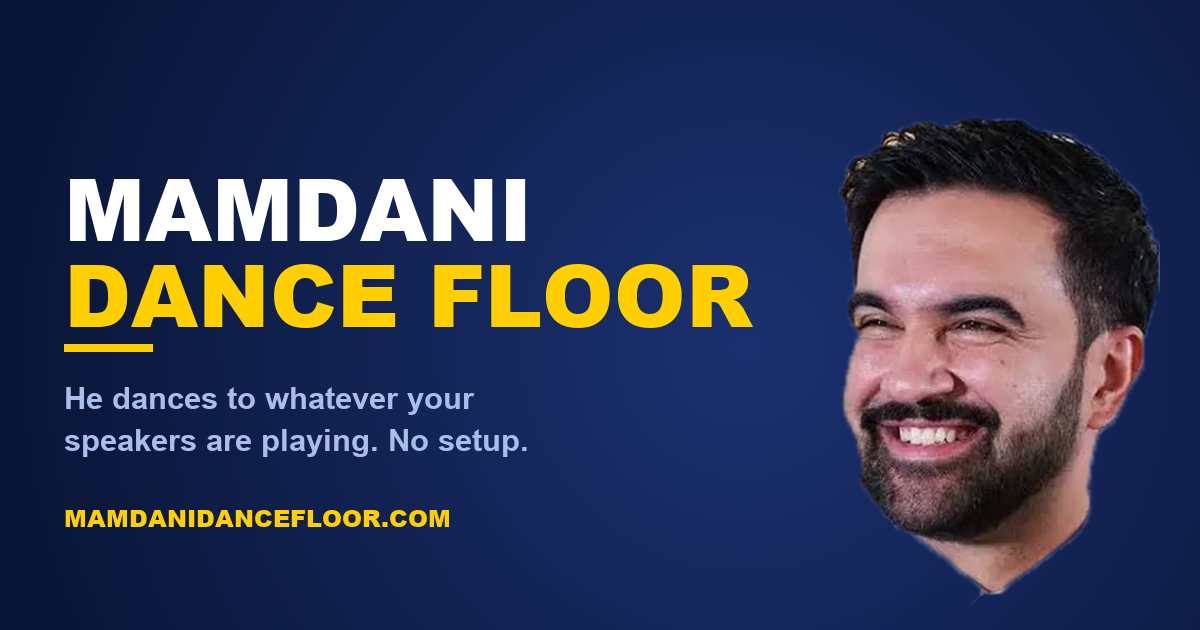
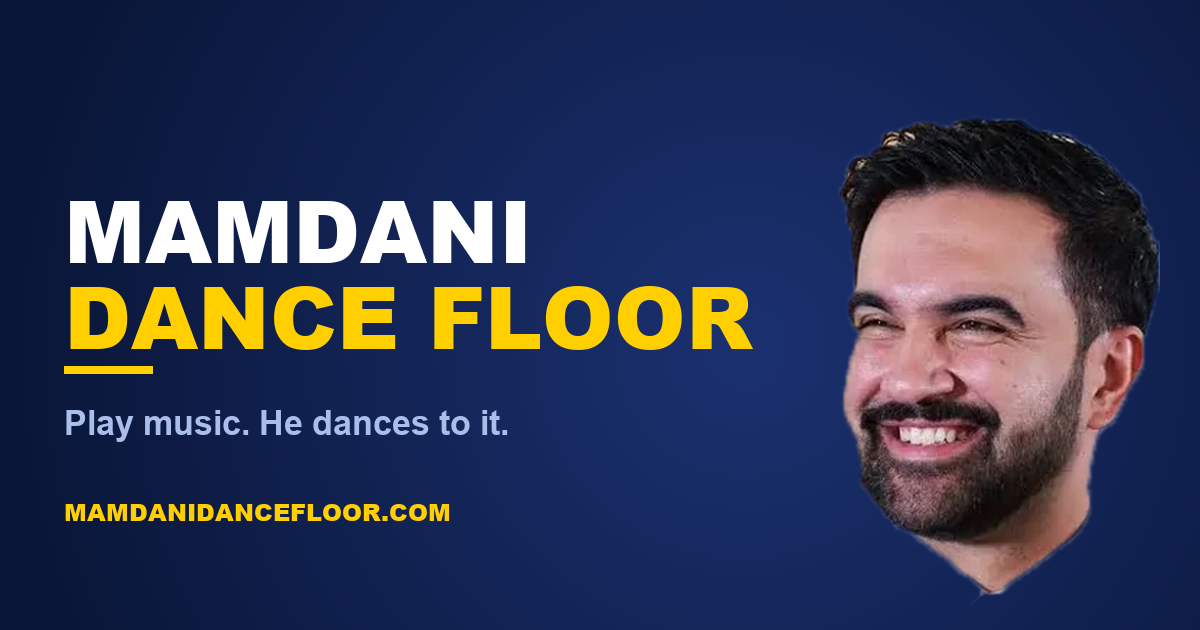
Restore the full show on phones; fact on top; shorter copy
Phones get the letterboxed band back with scenes, spectrum and crowd,
reverting the solo-dancer view. The band now sits at 62% rather than
centred, which opens the space above it for the fact box, moved from
the bottom to the top.

Copy trimmed. The share description was a paragraph explaining the
product; it is now "Play music. He dances to it." The iPhone notice
explained the audio-session limitation at length when the user only
needs the instruction: play on another device, hold this one near it.

Changed region(s): [[0.0308, 0.2714, 0.6475, 0.7238], [0.0617, 0.7841, 0.37, 0.8444]]

diff --git a/index.html b/index.html
@@ -10,11 +10,11 @@
 <meta name="theme-color" content="#12235B">
 <!-- /favicon -->
 <!-- link preview -->
-<meta name="description" content="He dances on the beat to whatever your speakers are playing. Real time beat detection, no setup, no sign in.">
+<meta name="description" content="Play music. He dances to it.">
 <meta property="og:type" content="website">
 <meta property="og:site_name" content="Mamdani Dance Floor">
 <meta property="og:title" content="Mamdani Dance Floor">
-<meta property="og:description" content="He dances on the beat to whatever your speakers are playing. Real time beat detection, no setup, no sign in.">
+<meta property="og:description" content="Play music. He dances to it.">
 <meta property="og:url" content="https://mamdanidancefloor.com/">
 <meta property="og:image" content="https://mamdanidancefloor.com/og.png">
 <meta property="og:image:width" content="1200">
@@ -22,7 +22,7 @@
 <meta property="og:image:alt" content="Mamdani Dance Floor">
 <meta name="twitter:card" content="summary_large_image">
 <meta name="twitter:title" content="Mamdani Dance Floor">
-<meta name="twitter:description" content="He dances on the beat to whatever your speakers are playing. Real time beat detection, no setup, no sign in.">
+<meta name="twitter:description" content="Play music. He dances to it.">
 <meta name="twitter:image" content="https://mamdanidancefloor.com/og.png">
 <!-- /link preview -->
 <style>
@@ -228,14 +228,15 @@
     background:#FFCF00; border:3px solid #12235B; box-shadow:0 2px 10px rgba(0,0,0,.5); }
 
   @media (max-width:700px) {
-    /* Phone is the solo view: him alone on flat dark. No scene art behind him,
-       so there is no fact to caption. display:none also beats the inline
-       opacity setFact() writes. */
-    #fact { display:none; }
-    /* Nothing but him on a phone. The sync chip is desk furniture (he either
-       dances or he does not, which says the same thing), and the full-screen
-       button is the one control most likely to be hit by accident while
-       someone is holding the phone up. */
+    /* The fact moves to the empty space above the band, where it reads as a
+       caption for the scene rather than something covering it. */
+    #fact { left:12px; right:12px; bottom:auto; top:14px; width:auto; max-width:none;
+      padding:10px 13px 11px; border-left-width:4px; text-align:left; }
+    #fact .fl { font-size:9px; letter-spacing:.2em; margin-bottom:5px; }
+    #fact .ft { font-size:12px; line-height:1.4; }
+    /* The sync chip is desk furniture (he either dances or he does not, which
+       says the same thing), and the full-screen button is the one control most
+       likely to be hit by accident while someone is holding the phone up. */
     #corner { display:none; }
     #sens { display:block; }
   }
@@ -327,10 +328,8 @@ const caches = {};
    into a letterboxed band across the middle and leave the rest dark. */
 const MAXR = 0.72;                       // tallest the stage is ever allowed to get
 
-/* On a phone the letterboxed band left him about a third of the screen and the
-   wide scene art was unreadable at that size. Phones instead get him alone,
-   full height, on flat dark: no scenes, no spectrum, no crowd, no fact box.
-   Matches the CSS breakpoint below. */
+/* Phones get the full show in a letterboxed band, scenes and spectrum included.
+   The band sits below centre so the fact reads above it rather than over it. */
 let SOLO = false;
 const soloQuery = window.matchMedia('(max-width:700px)');
 
@@ -339,8 +338,9 @@ function resize() {
   VW = window.innerWidth; VH = window.innerHeight;
   SOLO = soloQuery.matches;
   cv.width = Math.round(VW * DPR); cv.height = Math.round(VH * DPR);
-  W = VW; H = SOLO ? VH : Math.min(VH, Math.round(VW * MAXR));
-  offY = SOLO ? 0 : Math.round((VH - H) / 2);
+  W = VW; H = Math.min(VH, Math.round(VW * MAXR));
+  // 0.5 centres the band; 0.62 drops it to leave room for the fact above.
+  offY = Math.round((VH - H) * (SOLO ? 0.62 : 0.5));
   ctx.setTransform(DPR, 0, 0, DPR, 0, offY * DPR);
   document.body.classList.toggle('boxed', offY > 6);
   document.documentElement.style.setProperty('--band', offY + 'px');
@@ -2630,27 +2630,8 @@ function draw() {
   ctx.save();                                  // wipe the full surface, bars included
   ctx.setTransform(DPR, 0, 0, DPR, 0, 0);
   ctx.clearRect(0, 0, VW, VH);
-  if (SOLO || offY > 0) { ctx.fillStyle = SOLO ? '#0a1638' : '#05070f'; ctx.fillRect(0, 0, VW, VH); }
+  if (offY > 0) { ctx.fillStyle = '#0a1638'; ctx.fillRect(0, 0, VW, VH); }
   ctx.restore();
-
-  /* Phone: just him, dancing, on the campaign navy. He gets the whole viewport,
-     so the unit scales off the short side and he stands lower than the wide
-     layout. A soft pool of light under him keeps him off a flat wall of colour
-     and gives the beat somewhere to show. */
-  if (SOLO) {
-    ctx.save();
-    ctx.beginPath(); ctx.rect(0, 0, W, H); ctx.clip();
-    const gy = H * 0.62, gr = Math.max(W, H) * (0.52 + S.kick * 0.05);
-    const bg = ctx.createRadialGradient(W / 2, gy, 0, W / 2, gy, gr);
-    bg.addColorStop(0, '#1b3170');
-    bg.addColorStop(0.55, '#12235B');
-    bg.addColorStop(1, '#0a1638');
-    ctx.fillStyle = bg; ctx.fillRect(0, 0, W, H);
-    drawDancer(W / 2, H * 0.72, Math.min(W, H) * 0.25, S.beat + S.phase, S.energy);
-    if (S.flash > 0.01) { ctx.fillStyle = `rgba(255,255,255,${S.flash * 0.5})`; ctx.fillRect(0, 0, W, H); }
-    ctx.restore();
-    return;
-  }
 
   ctx.save();                                  // nothing escapes the stage
   ctx.beginPath(); ctx.rect(0, 0, W, H); ctx.clip();
@@ -2752,23 +2733,18 @@ if (noSystemAudio) {
   el('optMic').querySelector('.ch').textContent = 'Start the music';
   // A desktop browser that cannot share audio lands here too, so don't tell
   // someone on a laptop about "this phone".
-  const named = { firefox:'Firefox', safari:'Safari' }[BROWSER];
-  /* iOS hands the microphone to one app at a time. The moment this page starts
-     listening, iOS interrupts whatever else is playing, and a web page has no way
-     to ask for a mixable session \u2014 navigator.audioSession is the only lever and it
-     does not deliver here. So don't promise the phone's own speaker on iPhone;
-     point at a second source, which is what actually works. */
+  /* iOS hands the microphone to one app at a time, so the moment this page
+     listens it interrupts whatever is playing. Nothing a page can do about it,
+     so iPhone gets pointed at a second source instead of the phone's own
+     speaker. Keep the wording short: users need the instruction, not the cause. */
   el('optMic').querySelector('.cs').textContent =
     (!onPhone && NO_TAB_AUDIO)
-      ? (named || 'This browser') + ' cannot pass this page the sound from a tab or from '
-        + 'your system, so he listens through the microphone and dances to whatever is '
-        + 'playing nearby. To share the audio directly, open this page in Chrome or Edge.'
+      ? 'He listens through the microphone. For direct audio, open this page in '
+        + 'Chrome or Edge.'
     : IS_IOS
-      ? 'He listens through the microphone. Play the music on a speaker, a laptop or '
-        + 'another phone and hold this one near it. iPhone stops its own music when a '
-        + 'page starts listening, so this phone cannot be the one playing.'
-      : 'He listens through the microphone and dances to whatever is playing nearby, '
-        + 'including this phone\u2019s own speaker.';
+      ? 'Play music on a speaker or another device and hold this phone near it. '
+        + 'Music from this phone will not work.'
+      : 'He listens through the microphone and dances to whatever is playing nearby.';
 }
 
 
